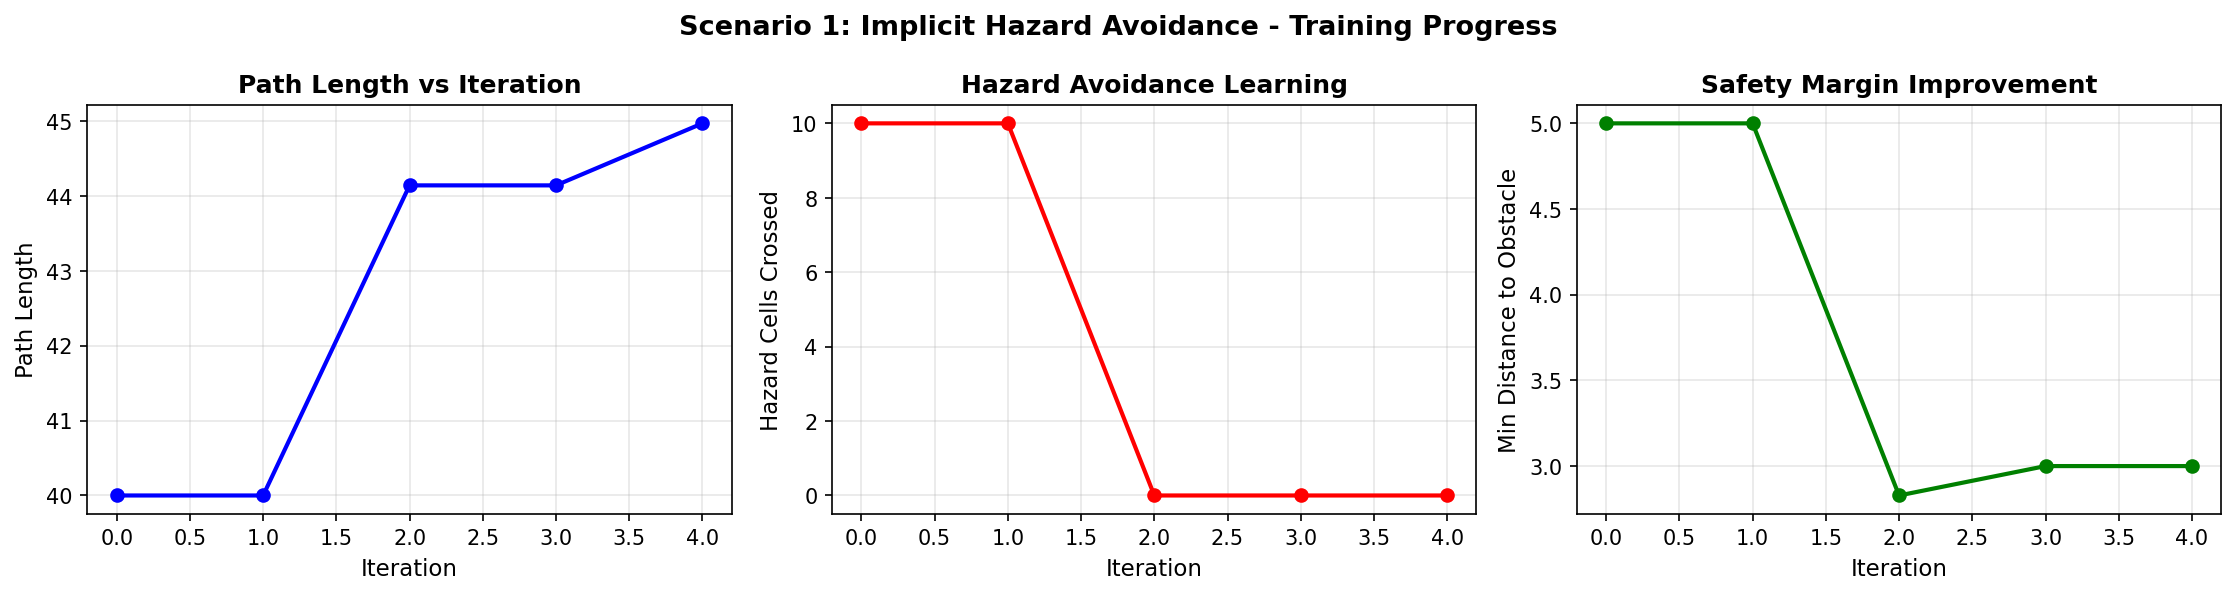
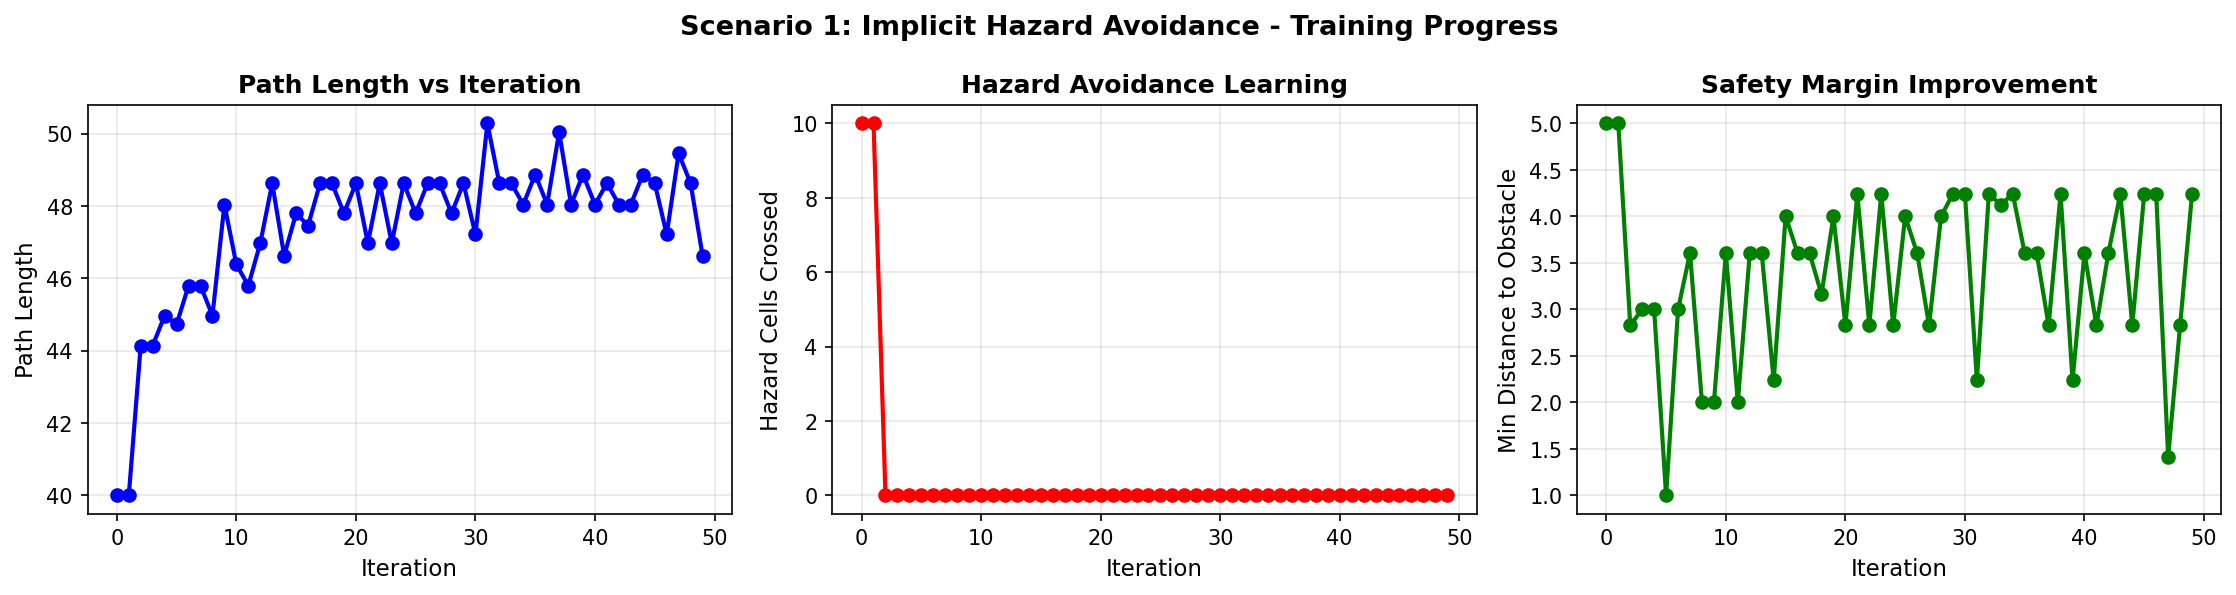
add mid term milestone

diff --git a/tamer_evaluation_suite.py b/tamer_evaluation_suite.py
@@ -503,7 +503,7 @@ def quick_demo():
     print("Estimated time: 30-60 seconds\n")
     
     evaluator = EvaluationSuite()
-    evaluator.run_full_evaluation(num_iterations=5)
+    evaluator.run_full_evaluation(num_iterations=50)
     
     print("\n" + "="*70)
     print("PRESENTATION FILES GENERATED:")
